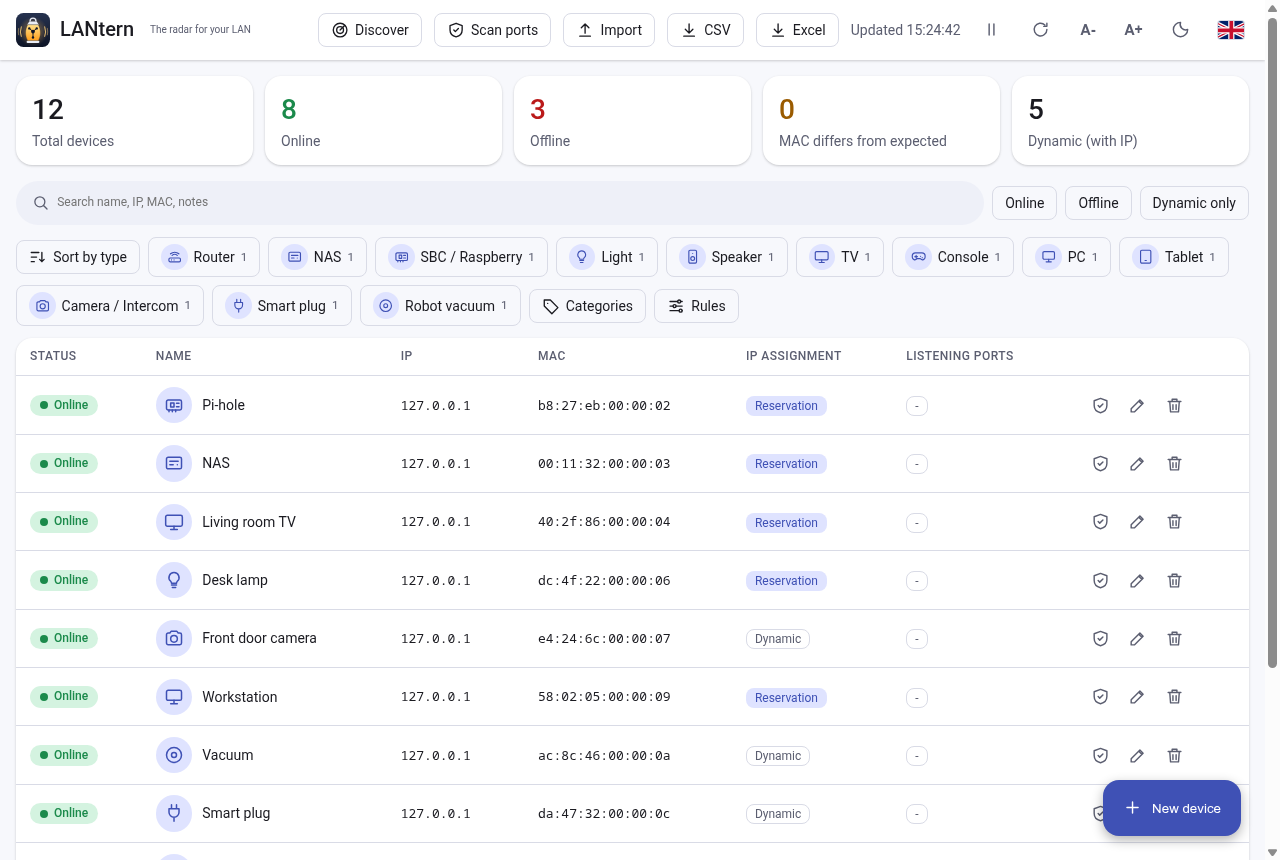
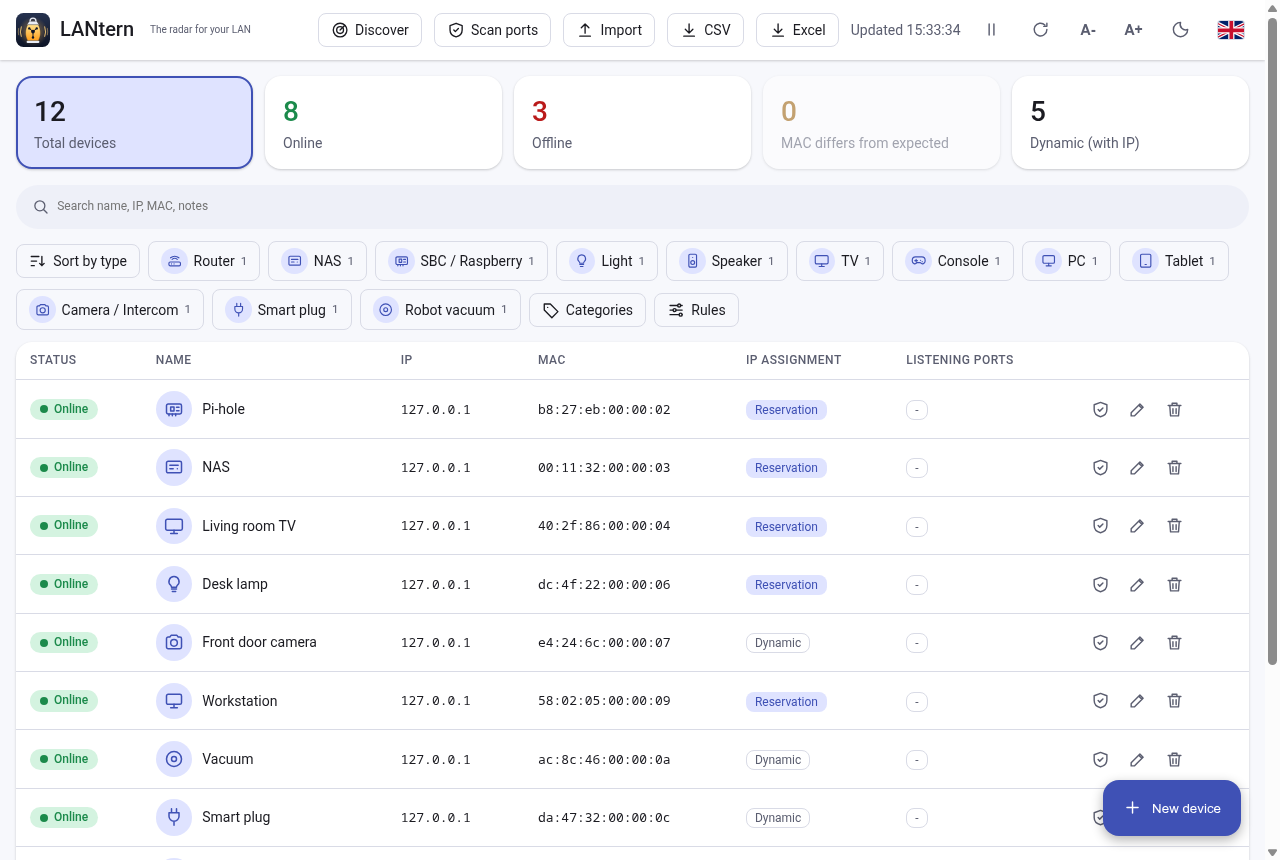
Stat cards are now filter buttons; drop redundant chips
Total clears all filters, Online/Offline/MAC mismatch are exclusive
statuses, Dynamic combines with them. MAC mismatch is disabled at 0.

Claude-Session: https://claude.ai/code/session_01CLfKjuXsc1N1Lk75nyagMj

diff --git a/index.html b/index.html
@@ -30,7 +30,7 @@ header h1 svg{color:var(--primary)}
 .icon-btn.spin svg{animation:s 1s linear infinite}@keyframes s{to{transform:rotate(360deg)}}
 main{max-width:1800px;margin:0 auto;padding:16px}
 .stats{display:grid;grid-template-columns:repeat(auto-fit,minmax(150px,1fr));gap:12px;margin-bottom:16px}
-.stat{background:var(--surface);border-radius:16px;padding:14px 16px;box-shadow:var(--shadow)}
+.stat{background:var(--surface);border:2px solid transparent;color:inherit;font:inherit;text-align:left;cursor:pointer;border-radius:16px;padding:14px 16px;box-shadow:var(--shadow)}.stat[aria-pressed=true]{border-color:var(--primary);background:var(--pc)}.stat:disabled{opacity:.55;cursor:default}
 .stat b{display:block;font-size:28px;font-weight:500}.stat span{color:var(--on2)}
 .stat.ok b{color:var(--ok)}.stat.bad b{color:var(--bad)}.stat.warn b{color:var(--warn)}
 .bar{display:flex;flex-wrap:wrap;gap:8px;align-items:center;margin-bottom:12px}
@@ -126,9 +126,6 @@ header h1 small{font-size:.5em;font-weight:400;color:var(--on2);margin-left:6px}
   <div class="stats" id="stats"></div>
   <div class="bar">
     <label class="search"><svg class="i" viewBox="0 0 24 24"><use href="#i-search"/></svg><input id="q" data-ip="search"></label>
-    <button class="chip" data-f="on" aria-pressed="false" data-i="f.on"></button>
-    <button class="chip" data-f="off" aria-pressed="false" data-i="f.off"></button>
-    <button class="chip" data-f="nores" aria-pressed="false" data-i="f.dyn"></button>
   </div>
   <div class="bar" id="types"></div>
   <div class="card"><table>
@@ -214,7 +211,7 @@ const LANGS={it:'Italiano',en:'English'};
 const L={
 it:{'auto.pause':'Metti in pausa l\'aggiornamento automatico','auto.resume':'Riprendi l\'aggiornamento automatico','oui.urls':'URL del registro OUI, uno per riga (CSV IEEE o oui.txt). Vuoto = predefiniti','imp':'Importa','imp.t':'Importa device da CSV o nmap XML','imp.res':'Letti {r}, nuovi {a}, senza MAC {s}','disc':'Scopri','disc.t':'Cerca i device nella LAN e aggiungi quelli nuovi','disc.res':'Trovati {f} device, {a} nuovi','app.tag':'Il radar della tua LAN','scan.all':'Scansiona porte','scan.all.t':'Scansiona le porte di tutti i device online','scan.one':'Scansiona porte',
 'scan.confirm':'Scansionare le porte di {n} device online?','exp.csv':'Esporta CSV','exp.xlsx':'Esporta Excel','updated':'Aggiornato {t}','refresh':'Aggiorna',
-'fs.m':'Riduci testo','fs.p':'Ingrandisci testo','theme':'Tema','lang':'Lingua','search':'Cerca nome, IP, MAC, note','f.on':'Online','f.off':'Offline','f.dyn':'Solo dinamici',
+'fs.m':'Riduci testo','fs.p':'Ingrandisci testo','theme':'Tema','lang':'Lingua','search':'Cerca nome, IP, MAC, note',
 'sort.type':'Ordina per tipo','sort.type.t':'Ordina per tipo (icona)','cats.btn':'Categorie','cats.btn.t':'Gestisci categorie','rules.btn':'Regole','rules.btn.t':'Regole di riconoscimento',
 'col.status':'Stato','col.name':'Nome','col.ip':'IP','col.mac':'MAC','col.vendor':'Produttore','col.type':'Tipo','col.assign':'Assegnazione IP','col.ports':'Porte in ascolto','col.notes':'Note',
 'st.on':'Online','st.off':'Offline','st.conflict':'MAC diverso','st.na':'N/D','as.0':'Dinamico','as.1':'Reservation','as.2':'Fisso',
@@ -232,7 +229,7 @@ it:{'auto.pause':'Metti in pausa l\'aggiornamento automatico','auto.resume':'Rip
 'sug.prefix':'Suggerito:','sug.vendor':'produttore {v}','sug.cat':'categoria {c} (regola {r})','sug.apply':'Applica','sug.local':'MAC locale o privato: il produttore non si può ricavare dal MAC'},
 en:{'auto.pause':'Pause auto-refresh','auto.resume':'Resume auto-refresh','oui.urls':'OUI registry URLs, one per line (IEEE CSV or oui.txt). Empty = defaults','imp':'Import','imp.t':'Import devices from CSV or nmap XML','imp.res':'Read {r}, new {a}, without MAC {s}','disc':'Discover','disc.t':'Find devices on the LAN and add the new ones','disc.res':'Found {f} devices, {a} new','app.tag':'The radar for your LAN','scan.all':'Scan ports','scan.all.t':'Scan ports of all online devices','scan.one':'Scan ports',
 'scan.confirm':'Scan ports of {n} online devices?','exp.csv':'Export CSV','exp.xlsx':'Export Excel','updated':'Updated {t}','refresh':'Refresh',
-'fs.m':'Smaller text','fs.p':'Larger text','theme':'Theme','lang':'Language','search':'Search name, IP, MAC, notes','f.on':'Online','f.off':'Offline','f.dyn':'Dynamic only',
+'fs.m':'Smaller text','fs.p':'Larger text','theme':'Theme','lang':'Language','search':'Search name, IP, MAC, notes',
 'sort.type':'Sort by type','sort.type.t':'Sort by type (icon)','cats.btn':'Categories','cats.btn.t':'Manage categories','rules.btn':'Rules','rules.btn.t':'Recognition rules',
 'col.status':'Status','col.name':'Name','col.ip':'IP','col.mac':'MAC','col.vendor':'Vendor','col.type':'Type','col.assign':'IP assignment','col.ports':'Listening ports','col.notes':'Notes',
 'st.on':'Online','st.off':'Offline','st.conflict':'MAC mismatch','st.na':'N/A','as.0':'Dynamic','as.1':'Reservation','as.2':'Static',
@@ -295,7 +292,7 @@ async function scan(ids){
 function render(){
   const q=$('#q').value.toLowerCase();
   let rows=devices.filter(d=>(!q||[d.name,d.ip,d.mac,d.vendor,d.notes].join(' ').toLowerCase().includes(q))
-    &&(!filt.has('on')||d.status==='on'||d.status==='conflict')&&(!filt.has('off')||d.status==='off')&&(!filt.has('nores')||!d.reserved)&&(!tf.size||tf.has(d.type)));
+    &&(!filt.has('on')||d.status==='on'||d.status==='conflict')&&(!filt.has('off')||d.status==='off')&&(!filt.has('conflict')||d.status==='conflict')&&(!filt.has('nores')||(!d.reserved&&d.ip))&&(!tf.size||tf.has(d.type)));
   rows.sort((a,b)=>{const x=val(a,sort.k),y=val(b,sort.k);return (x>y?1:x<y?-1:ipn(a.ip)-ipn(b.ip)||0)*sort.d});
   $('#rows').innerHTML=rows.map(d=>{const[p,l]=PILL[d.status];return `<tr>
     <td><span class="pill ${p}">${t(l)}</span></td>
@@ -312,9 +309,10 @@ function render(){
     +`<button class="chip" data-cats title="${t('cats.btn.t')}">${ico('tag')}${t('cats.btn')}</button><button class="chip" data-rules title="${t('rules.btn.t')}">${ico('rules')}${t('rules.btn')}</button>`;
   renderCats();
   const n=s=>devices.filter(d=>d.status===s).length;
-  $('#stats').innerHTML=[['','stat.total',devices.length],['ok','stat.online',n('on')+n('conflict')],['bad','stat.off',n('off')],
-    ['warn','stat.conflict',n('conflict')],['','stat.dyn',devices.filter(d=>!d.reserved&&d.ip).length]]
-    .map(([c,l,v])=>`<div class="stat ${c}"><b>${v}</b><span>${t(l)}</span></div>`).join('');
+  const dyn=devices.filter(d=>!d.reserved&&d.ip).length;  // key: filter set entry; total clears everything
+  $('#stats').innerHTML=[['','stat.total',devices.length,'all'],['ok','stat.online',n('on')+n('conflict'),'on'],['bad','stat.off',n('off'),'off'],
+    ['warn','stat.conflict',n('conflict'),'conflict'],['','stat.dyn',dyn,'nores']]
+    .map(([c,l,v,k])=>`<button class="stat ${c}" data-s="${k}" aria-pressed="${k==='all'?!filt.size&&!tf.size:filt.has(k)}"${k==='conflict'&&!v?' disabled':''}><b>${v}</b><span>${t(l)}</span></button>`).join('');
   if(lastUpd)$('#ts').textContent=t('updated',{t:lastUpd.toLocaleTimeString(lang==='it'?'it-IT':'en-GB')});
 }
 async function api(m,u,b){const r=await fetch(u,{method:m,headers:{'Content-Type':'application/json'},body:b&&JSON.stringify(b)});
@@ -338,12 +336,10 @@ $('#impf').onchange=async e=>{const f=e.target.files[0];e.target.value='';if(!f)
 $('#discover').onclick=()=>discover(false);
 $('#scanall').onclick=()=>{const ids=devices.filter(d=>d.ip&&d.status&&d.status!=='off'&&!scanning.has(d.id)).map(d=>d.id);if(ids.length&&confirm(t('scan.confirm',{n:ids.length})))scan(ids)};
 $('#refresh').onclick=load;$('#q').oninput=render;
-document.querySelectorAll('.bar:not(#types) > .chip').forEach(c=>c.onclick=()=>{
-  const f=c.dataset.f,on=c.getAttribute('aria-pressed')!=='true';c.setAttribute('aria-pressed',on);
-  on?filt.add(f):filt.delete(f);
-  if(on&&f==='on'){filt.delete('off');document.querySelector('[data-f=off]').setAttribute('aria-pressed',false)}
-  if(on&&f==='off'){filt.delete('on');document.querySelector('[data-f=on]').setAttribute('aria-pressed',false)}
-  render()});
+$('#stats').onclick=e=>{const k=e.target.closest('[data-s]')?.dataset.s;if(!k)return;
+  if(k==='all'){filt.clear();tf.clear();return render()}
+  if(filt.has(k))filt.delete(k);else{if(k!=='nores')['on','off','conflict'].forEach(x=>filt.delete(x));filt.add(k)}  // statuses exclude each other
+  render()};
 
 // device
 let editId=null;const f=$('#form');
